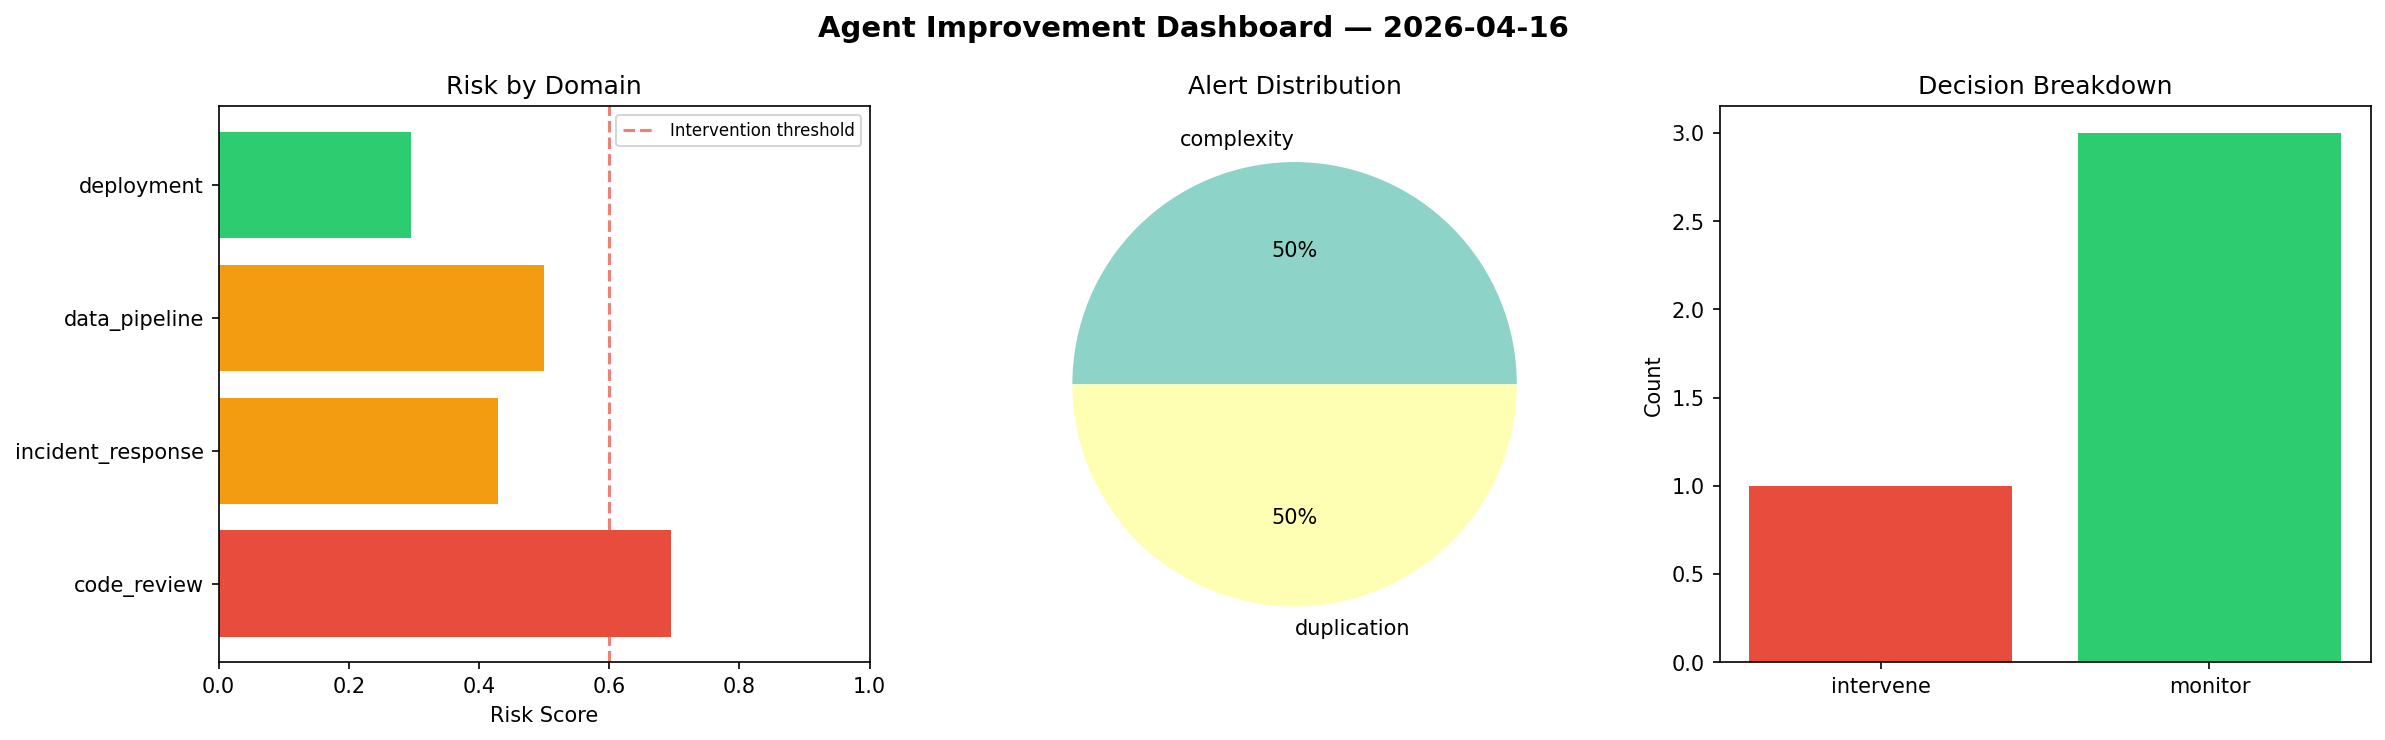
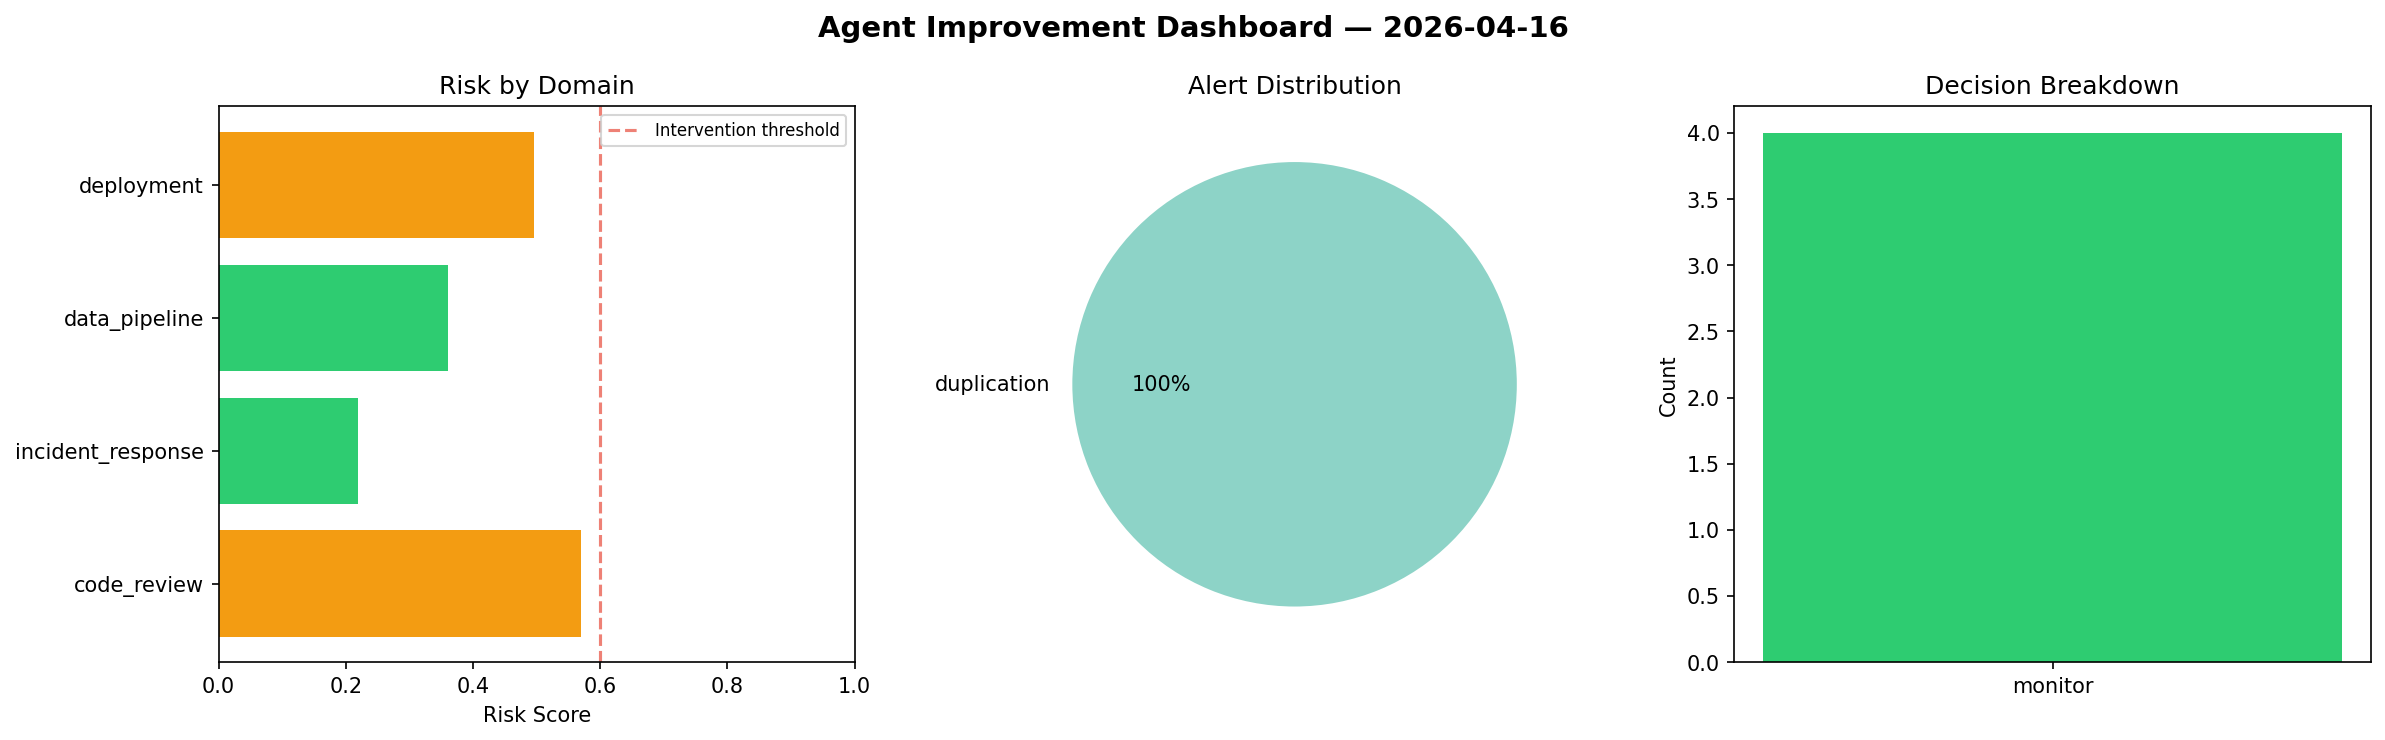
agent-improvement: daily cycle 2026-04-16T09:49

diff --git a/logs/2026-04-16.md b/logs/2026-04-16.md
@@ -1,6 +1,6 @@
 # Agent Improvement Report — 2026-04-16
 
-**Cycle ID:** `5f81e8c2` | **Avg Risk:** 0.4798 | **Interventions:** 1/4
+**Cycle ID:** `300e4c9f` | **Avg Risk:** 0.411 | **Interventions:** 0/4
 
 ![Dashboard](2026-04-16_dashboard.png)
 
@@ -10,18 +10,18 @@
 
 | Domain | Risk Score | Decision | Alerts |
 |--------|-----------|----------|--------|
-| code_review | 0.6948 | intervene | complexity, duplication |
-| incident_response | 0.429 | monitor | none |
-| data_pipeline | 0.4992 | monitor | none |
-| deployment | 0.2963 | monitor | none |
+| code_review | 0.5694 | monitor | duplication |
+| incident_response | 0.2184 | monitor | none |
+| data_pipeline | 0.3604 | monitor | none |
+| deployment | 0.4958 | monitor | none |
 
 ## Delta vs Yesterday
 
 | Domain | Today | Yesterday | Change |
 |--------|-------|-----------|--------|
-| code_review | 0.6948 | 0.586 | 📈 18.6% |
-| incident_response | 0.429 | 0.4105 | 📈 4.5% |
-| data_pipeline | 0.4992 | 0.608 | 📉 -17.9% |
-| deployment | 0.2963 | 0.5972 | 📉 -50.4% |
+| code_review | 0.5694 | 0.586 | 📉 -2.8% |
+| incident_response | 0.2184 | 0.4105 | 📉 -46.8% |
+| data_pipeline | 0.3604 | 0.608 | 📉 -40.7% |
+| deployment | 0.4958 | 0.5972 | 📉 -17.0% |
 
 **Refinement:** `{'adjustment': 'maintain', 'trend': 'improving', 'window': 4}`
